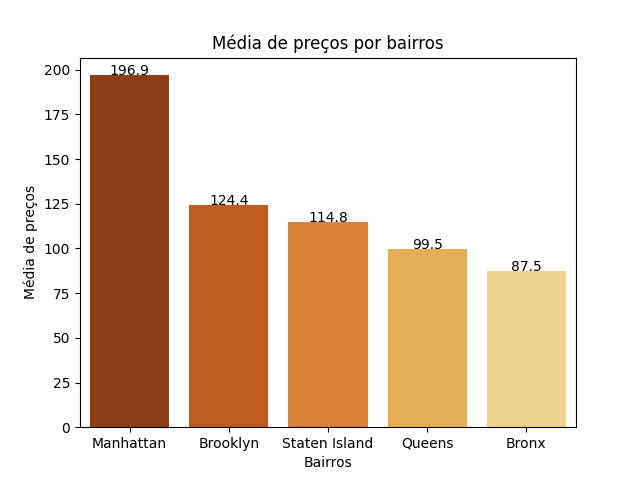
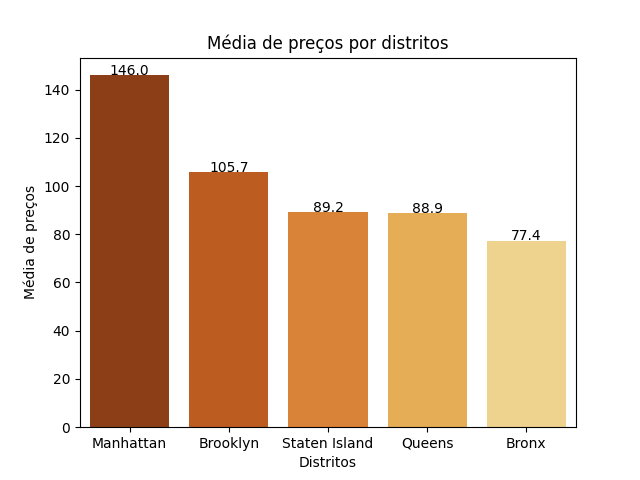
bairros mais caros

diff --git a/analysis/analysis.py b/analysis/analysis.py
@@ -113,10 +113,10 @@ plt.savefig("../img/distribuicao_preco_sem_outliers.png")
 plt.show()
 # %%
 
-# identificar e plotar os bairros com maior média de preços
+# identificar e plotar os distritos com maior média de preços
 
-media_precos = df.groupby('neighbourhood_group', as_index=False)['price'].mean()
-media_precos.head().sort_values('price', ascending=False)
+media_precos = df_sem_outliers.groupby('neighbourhood_group', as_index=False)['price'].mean()
+media_precos.sort_values('price', ascending=False)
 # %%
 
 paleta_cores = sns.color_palette("YlOrBr_r")
@@ -129,8 +129,8 @@ ax = sns.barplot(
     palette=paleta_cores
 )
 
-plt.title('Média de preços por bairros')
-plt.xlabel('Bairros')
+plt.title('Média de preços por distritos')
+plt.xlabel('Distritos')
 plt.ylabel('Média de preços')
 
 
@@ -169,6 +169,43 @@ plt.ylabel('Latitude')
 plt.savefig("../img/mapa_precos_geografico.png")
 
 plt.show()
+
 # %%
 
+# plotar bairros mais caros
 
+media_precos_bairros = df_sem_outliers.groupby('neighbourhood', as_index=False)['price'].mean()
+media_precos_bairros.sort_values('price',ascending=False)
+
+# %%
+
+contagem = df_sem_outliers['neighbourhood'].value_counts()
+
+media_precos_bairros['qtd_imoveis'] = media_precos_bairros['neighbourhood'].map(contagem)
+
+# %%
+
+media_precos_bairros.head()
+
+# %%
+
+media_precos_bairros = media_precos_bairros[media_precos_bairros['qtd_imoveis'] > 50]
+# %%
+
+top10 = media_precos_bairros.sort_values('price', ascending=False).head(10)
+
+top10.head()
+# %%
+
+plt.figure(figsize=(10,6))
+
+plt.barh(
+    
+)
+
+plt.title('Top 10 bairros mais caros (com volume relevante)')
+plt.xlabel('Preço médio')
+plt.ylabel('Bairro')
+
+plt.show()
+# %%
